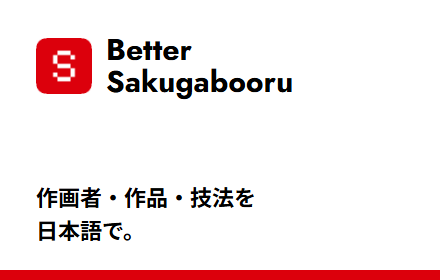
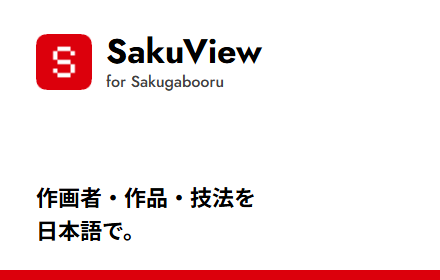
Rename to SakuView for Sakugabooru

diff --git a/manifest.config.ts b/manifest.config.ts
@@ -2,7 +2,7 @@ import { defineManifest } from '@crxjs/vite-plugin'
 
 export default defineManifest({
   manifest_version: 3,
-  name: 'Better Sakugabooru',
+  name: 'SakuView for Sakugabooru',
   version: '1.0.0',
   description: 'Sakugabooru を日本語で。タグの日本語表示・日本語検索・見やすい一覧。',
   icons: { 16: 'icons/16.png', 48: 'icons/48.png', 128: 'icons/128.png' },
@@ -10,7 +10,7 @@ export default defineManifest({
   // No jsDelivr permission: it serves Access-Control-Allow-Origin: *, so the worker's plain fetch works via CORS.
   host_permissions: ['https://www.sakugabooru.com/*'],
   background: { service_worker: 'src/background/index.ts', type: 'module' },
-  action: { default_popup: 'src/popup/index.html', default_title: 'Better Sakugabooru' },
+  action: { default_popup: 'src/popup/index.html', default_title: 'SakuView' },
   content_scripts: [
     {
       matches: ['https://www.sakugabooru.com/*'],

diff --git a/src/popup/index.html b/src/popup/index.html
@@ -3,13 +3,13 @@
   <head>
     <meta charset="UTF-8" />
     <meta name="viewport" content="width=380" />
-    <title>Better Sakugabooru</title>
+    <title>SakuView</title>
   </head>
   <body>
     <div class="pp">
       <header class="pp-head">
-        <span class="pp-brand">sakugabooru</span>
-        <span class="pp-sub">日本語化拡張の設定</span>
+        <span class="pp-brand">SakuView</span>
+        <span class="pp-sub">設定</span>
         <span class="pp-version" id="pp-version"></span>
       </header>
 

diff --git a/src/content/header.css b/src/content/header.css
@@ -1,4 +1,4 @@
-/* Better Sakugabooru: header bar (variant E). Colors come only from tokens.css.
+/* SakuView: header bar (variant E). Colors come only from tokens.css.
  * Selectors carry html[data-bsb-theme] so they outrank the generic #header / #main-menu rules in site.css.
  * Width budget at 1280 px: logo + 10 menu items (14 px, gap 16) + search + JP|EN + upload + account.
  * The page body already keeps a side gutter, so the bar has no horizontal padding of its own.

diff --git a/src/content/listband.css b/src/content/listband.css
@@ -1,4 +1,4 @@
-/* Better Sakugabooru: list page title band (variant E, Dense). Colors come only from tokens.css.
+/* SakuView: list page title band (variant E, Dense). Colors come only from tokens.css.
  * Selectors carry html[data-bsb-theme] where the site's bare `div`/`input`/`button` rules would otherwise win.
  */
 html[data-bsb-theme] .bsb-listband {

diff --git a/src/content/show.css b/src/content/show.css
@@ -1,4 +1,4 @@
-/* Better Sakugabooru: show page (variant E, ShowE mock). Colors come only from tokens.css. */
+/* SakuView: show page (variant E, ShowE mock). Colors come only from tokens.css. */
 
 /* The site gives body a 42px gutter; the band must be full-bleed like the mock. */
 html[data-bsb-theme] body[data-bsb-show] {

diff --git a/src/content/list.css b/src/content/list.css
@@ -1,4 +1,4 @@
-/* Better Sakugabooru: list page (variant E, Dense). Colors come only from tokens.css.
+/* SakuView: list page (variant E, Dense). Colors come only from tokens.css.
  * Layout follows the mock: band on top, then `aside 224px | grid flex 1 1 800px` with gap 28px.
  */
 .bsb-hide {

diff --git a/src/content/search.css b/src/content/search.css
@@ -1,4 +1,4 @@
-/* Better Sakugabooru: Japanese search suggestions. Colors come only from tokens.css. */
+/* SakuView: Japanese search suggestions. Colors come only from tokens.css. */
 .bsb-suggest {
   position: absolute;
   z-index: 10000;

diff --git a/src/theme/site.css b/src/theme/site.css
@@ -1,4 +1,4 @@
-/* Better Sakugabooru: flat restyle (variant E). Colors come only from tokens.css. */
+/* SakuView: flat restyle (variant E). Colors come only from tokens.css. */
 
 /* ---- Base ---- */
 html[data-bsb-theme] body {

diff --git a/src/content/player.css b/src/content/player.css
@@ -1,4 +1,4 @@
-/* Better Sakugabooru: show-page player (variant E). Colors come only from tokens.css. */
+/* SakuView: show-page player (variant E). Colors come only from tokens.css. */
 
 .bsb-player {
   display: flex;

diff --git a/README.md b/README.md
@@ -1,4 +1,4 @@
-# Better Sakugabooru
+# SakuView for Sakugabooru
 
 [Sakugabooru](https://www.sakugabooru.com/) を日本語で見やすくする Chrome 拡張 (Manifest V3) です。非公式のツールで、Sakugabooru 運営とは無関係です。
 
@@ -13,11 +13,11 @@
 ### A. zip を読み込む (開発者モード)
 
 1. エクスプローラーでこのフォルダの `release` フォルダを開きます。
-2. `better-sakugabooru-1.0.0.zip` を右クリックして「すべて展開」を選び、展開します (できたフォルダの直下に `manifest.json` があればOK)。
+2. `sakuview-1.0.0.zip` を右クリックして「すべて展開」を選び、展開します (できたフォルダの直下に `manifest.json` があればOK)。
 3. Chrome のアドレスバーに `chrome://extensions` と入力して Enter。
 4. 右上の「デベロッパー モード」をオンにします。
 5. 左上の「パッケージ化されていない拡張機能を読み込む」を押し、手順 2 で展開したフォルダを選びます。
-6. 拡張機能の一覧に「Better Sakugabooru」が出れば完了です。https://www.sakugabooru.com/ を開いてください。
+6. 拡張機能の一覧に「SakuView for Sakugabooru」が出れば完了です。https://www.sakugabooru.com/ を開いてください。
 
 展開したフォルダは削除や移動をしないでください (消すと拡張機能が無効になります)。
 
@@ -27,7 +27,7 @@
 
 ## 使い方
 
-- Chrome のツールバーにある拡張機能のアイコンを押すと設定ポップアップが開きます (見つからないときは、パズルのピースのアイコンから「Better Sakugabooru」をピン留め)。
+- Chrome のツールバーにある拡張機能のアイコンを押すと設定ポップアップが開きます (見つからないときは、パズルのピースのアイコンから「SakuView for Sakugabooru」をピン留め)。
 - テーマ (ライト / ダーク / OS に合わせる)、各機能の ON/OFF、1 ページの件数、サムネの大きさ、サムネ下に出す項目を変えられます。
 - ページ右上のヘッダーにある JP | EN で、サイト本体の言語を切り替えられます。
 - 辞書に無いタグには「訳を提案する」リンクが出ます。自分でクリックしたときだけ、GitHub の Issue フォームが開き、投稿の URL と未訳タグが入力欄に入ります。内容を確認して送信してください。
@@ -44,7 +44,7 @@ pnpm dev        # 開発サーバー
 pnpm test       # 単体テスト
 pnpm typecheck  # 型チェック
 pnpm build      # dist/ に拡張を出力
-pnpm release    # 型チェック + テスト + ビルド + release/better-sakugabooru-<version>.zip
+pnpm release    # 型チェック + テスト + ビルド + release/sakuview-<version>.zip
 pnpm smoke      # 実サイトでの確認 (Playwright)。スクリーンショットは test/smoke/screenshots/ に出る
 ```
 

diff --git a/PRIVACY.md b/PRIVACY.md
@@ -1,6 +1,6 @@
 # プライバシーポリシー / Privacy Policy
 
-Better Sakugabooru (Chrome 拡張機能)
+SakuView for Sakugabooru (Chrome 拡張機能)
 
 最終更新: 2026-10-13
 

diff --git a/store/listing.md b/store/listing.md
@@ -4,7 +4,7 @@
 
 ## 名前 (manifest から自動)
 
-Better Sakugabooru
+SakuView for Sakugabooru
 
 ## 短い説明 (manifest から自動)
 
